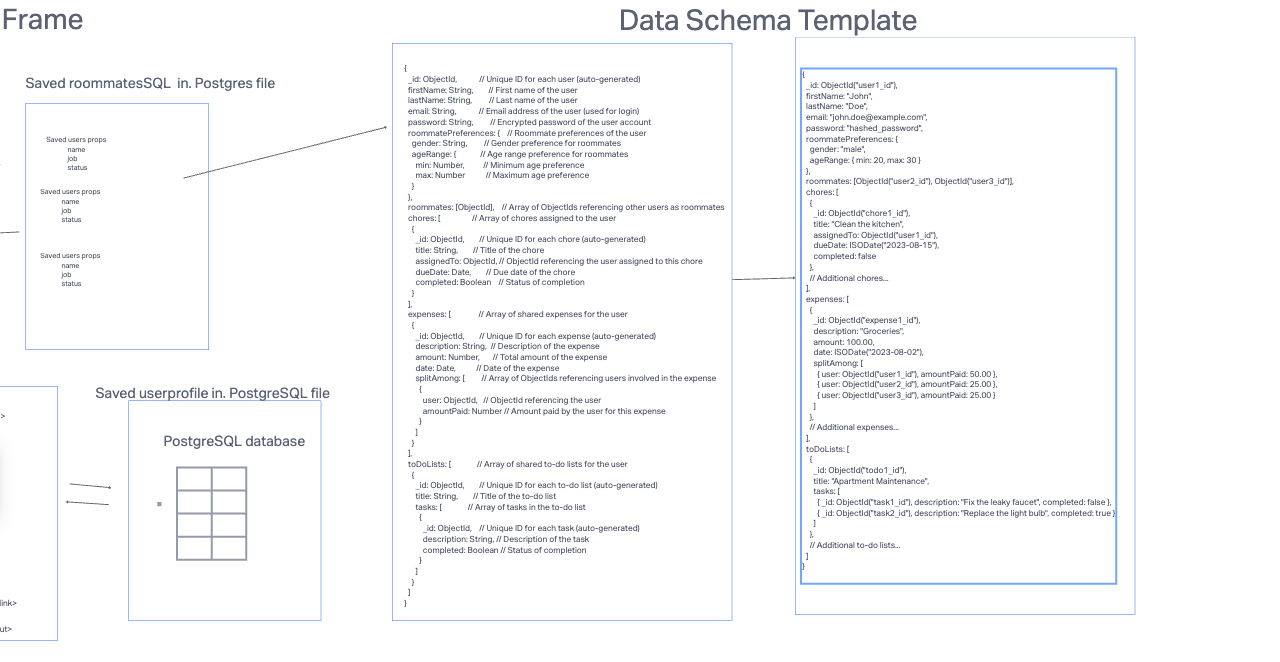
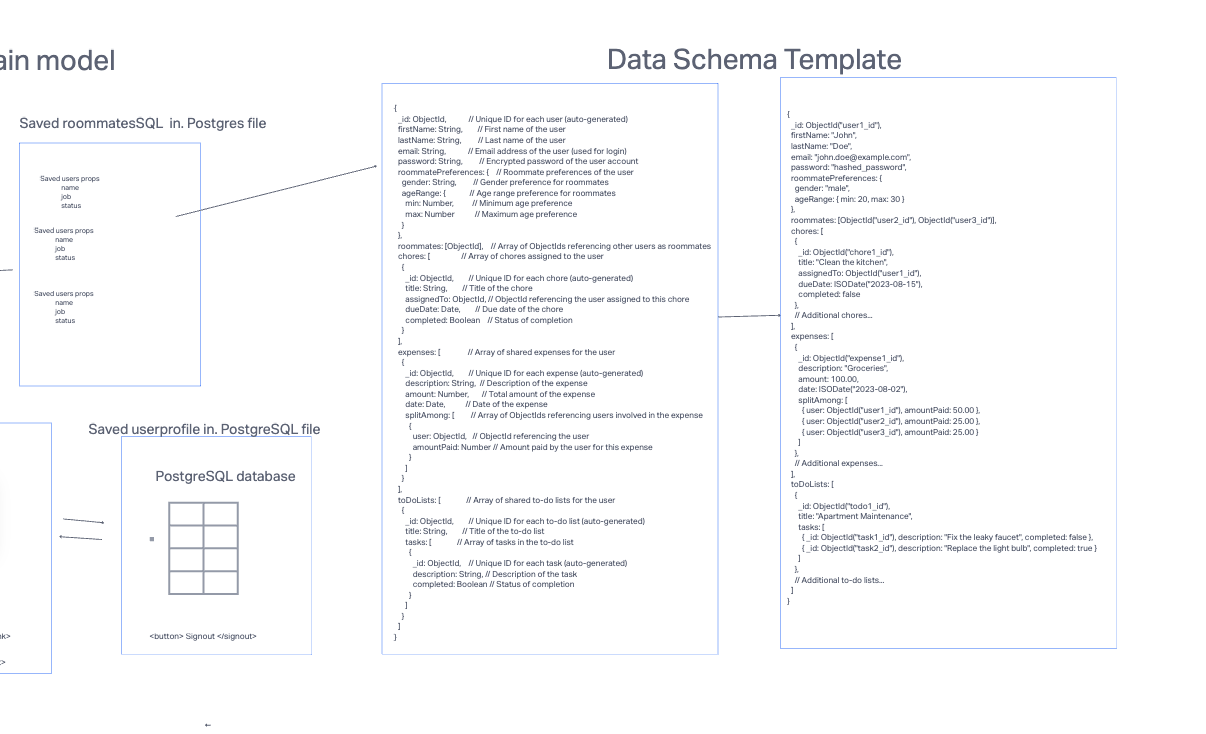
add wireframe domain model and data schema

diff --git a/README.md b/README.md
@@ -12,15 +12,14 @@ RoomEase is a roommate management system designed to streamline communication an
 
 ![Wireframe](wireframe.png)
 
-
 ## Domain Model
 
-![Wireframe](domainmodel.png)
+![domain model](domainmodel.png)
 
 
 ## Data Schema
 
-![Wireframe](dataschema.png)
+![data schema](dataschema.png)
 
 
 ## Link to User Stories/Trello Board
